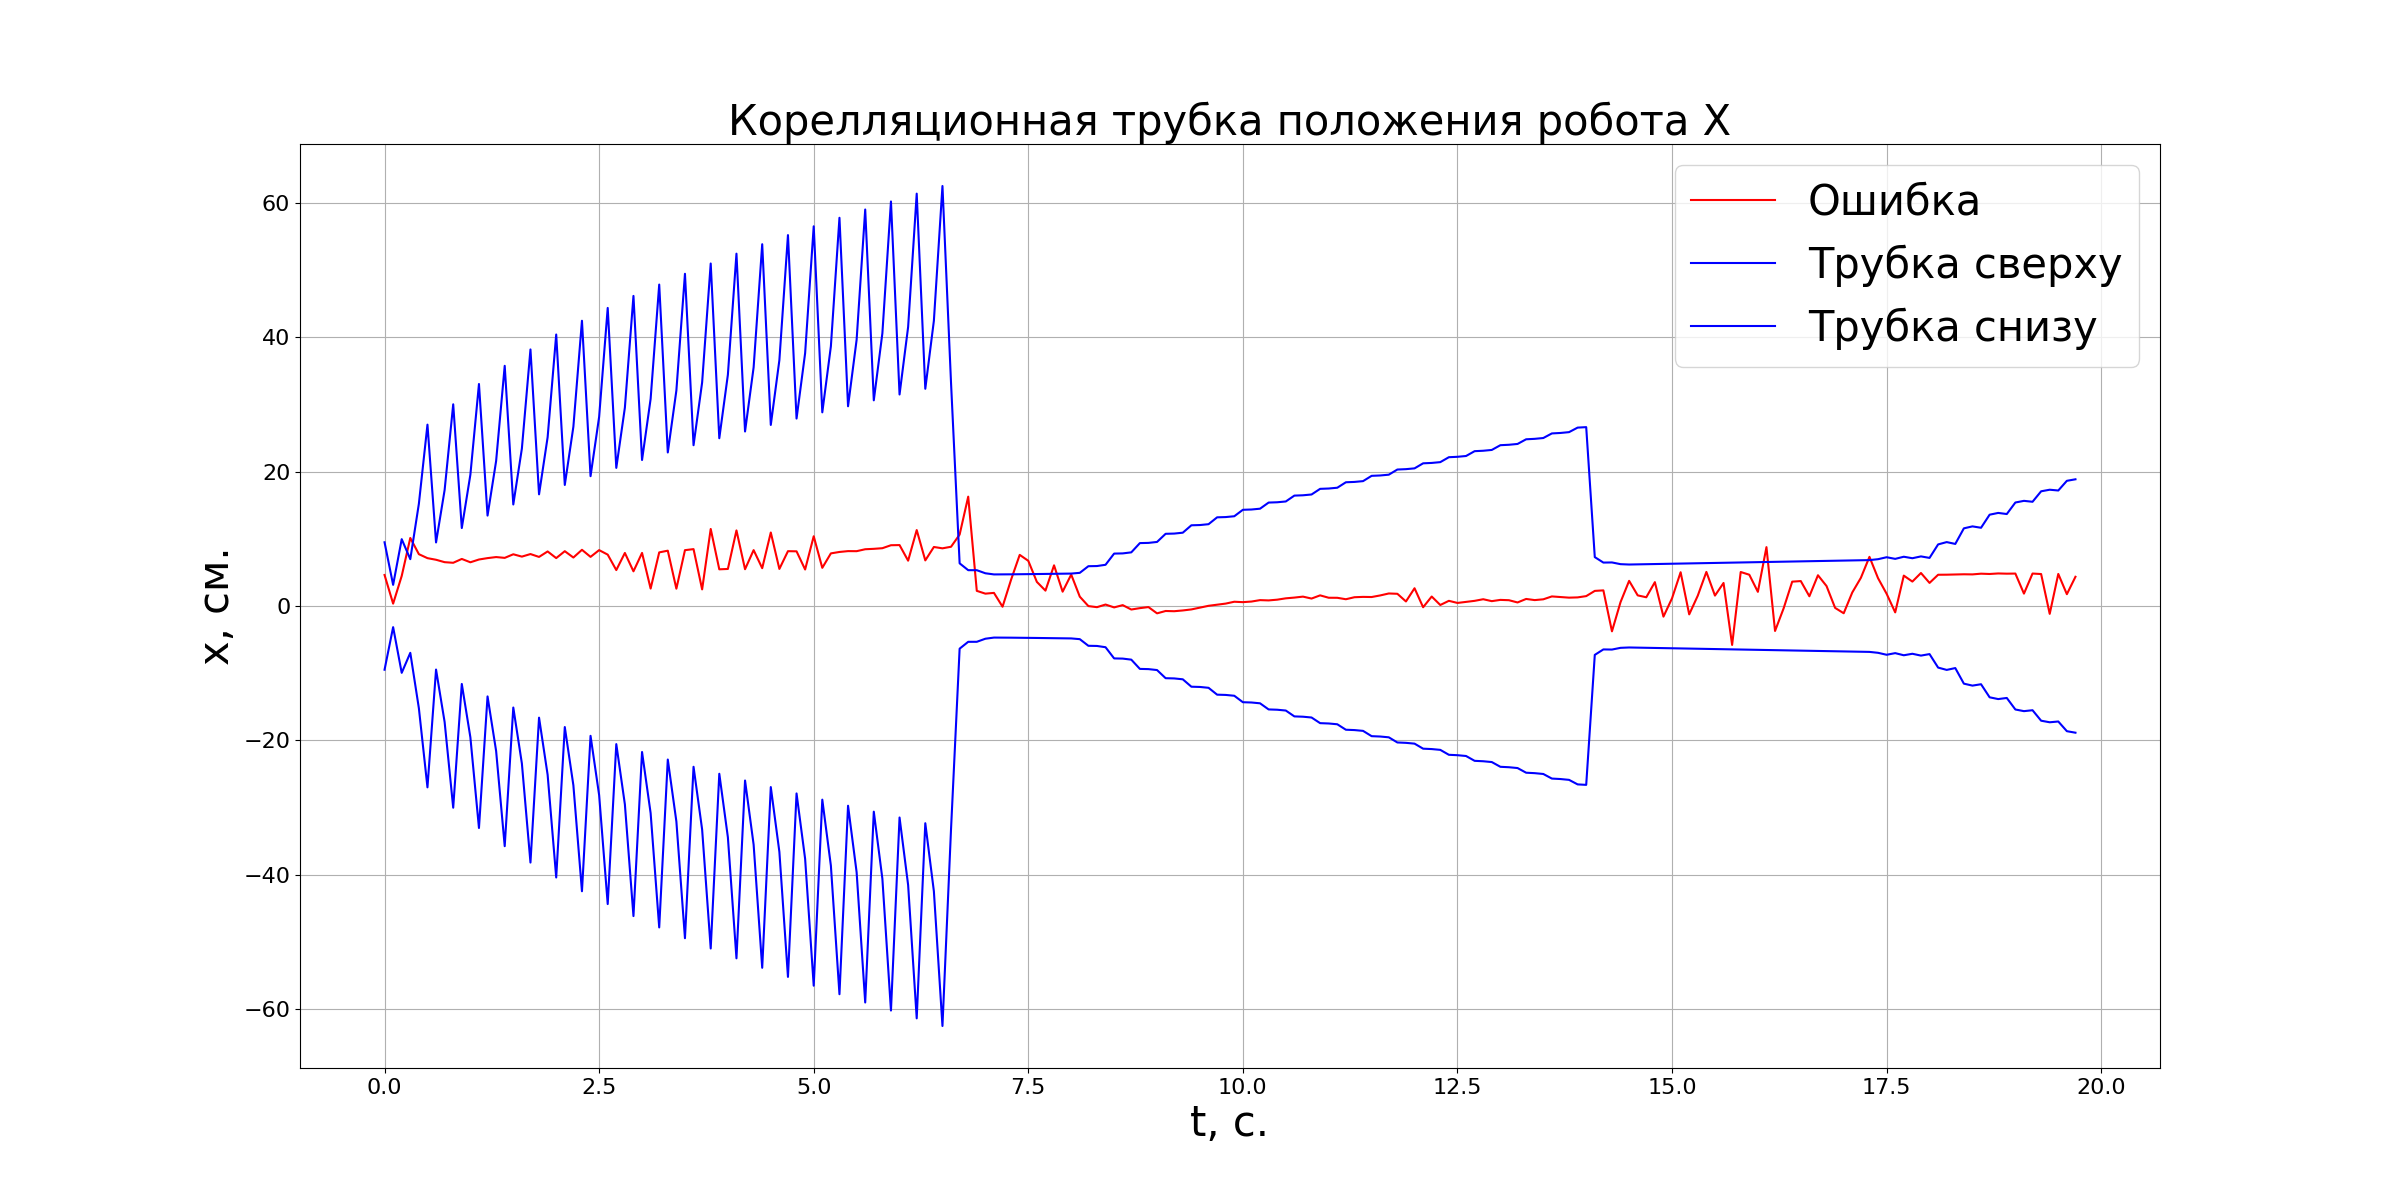
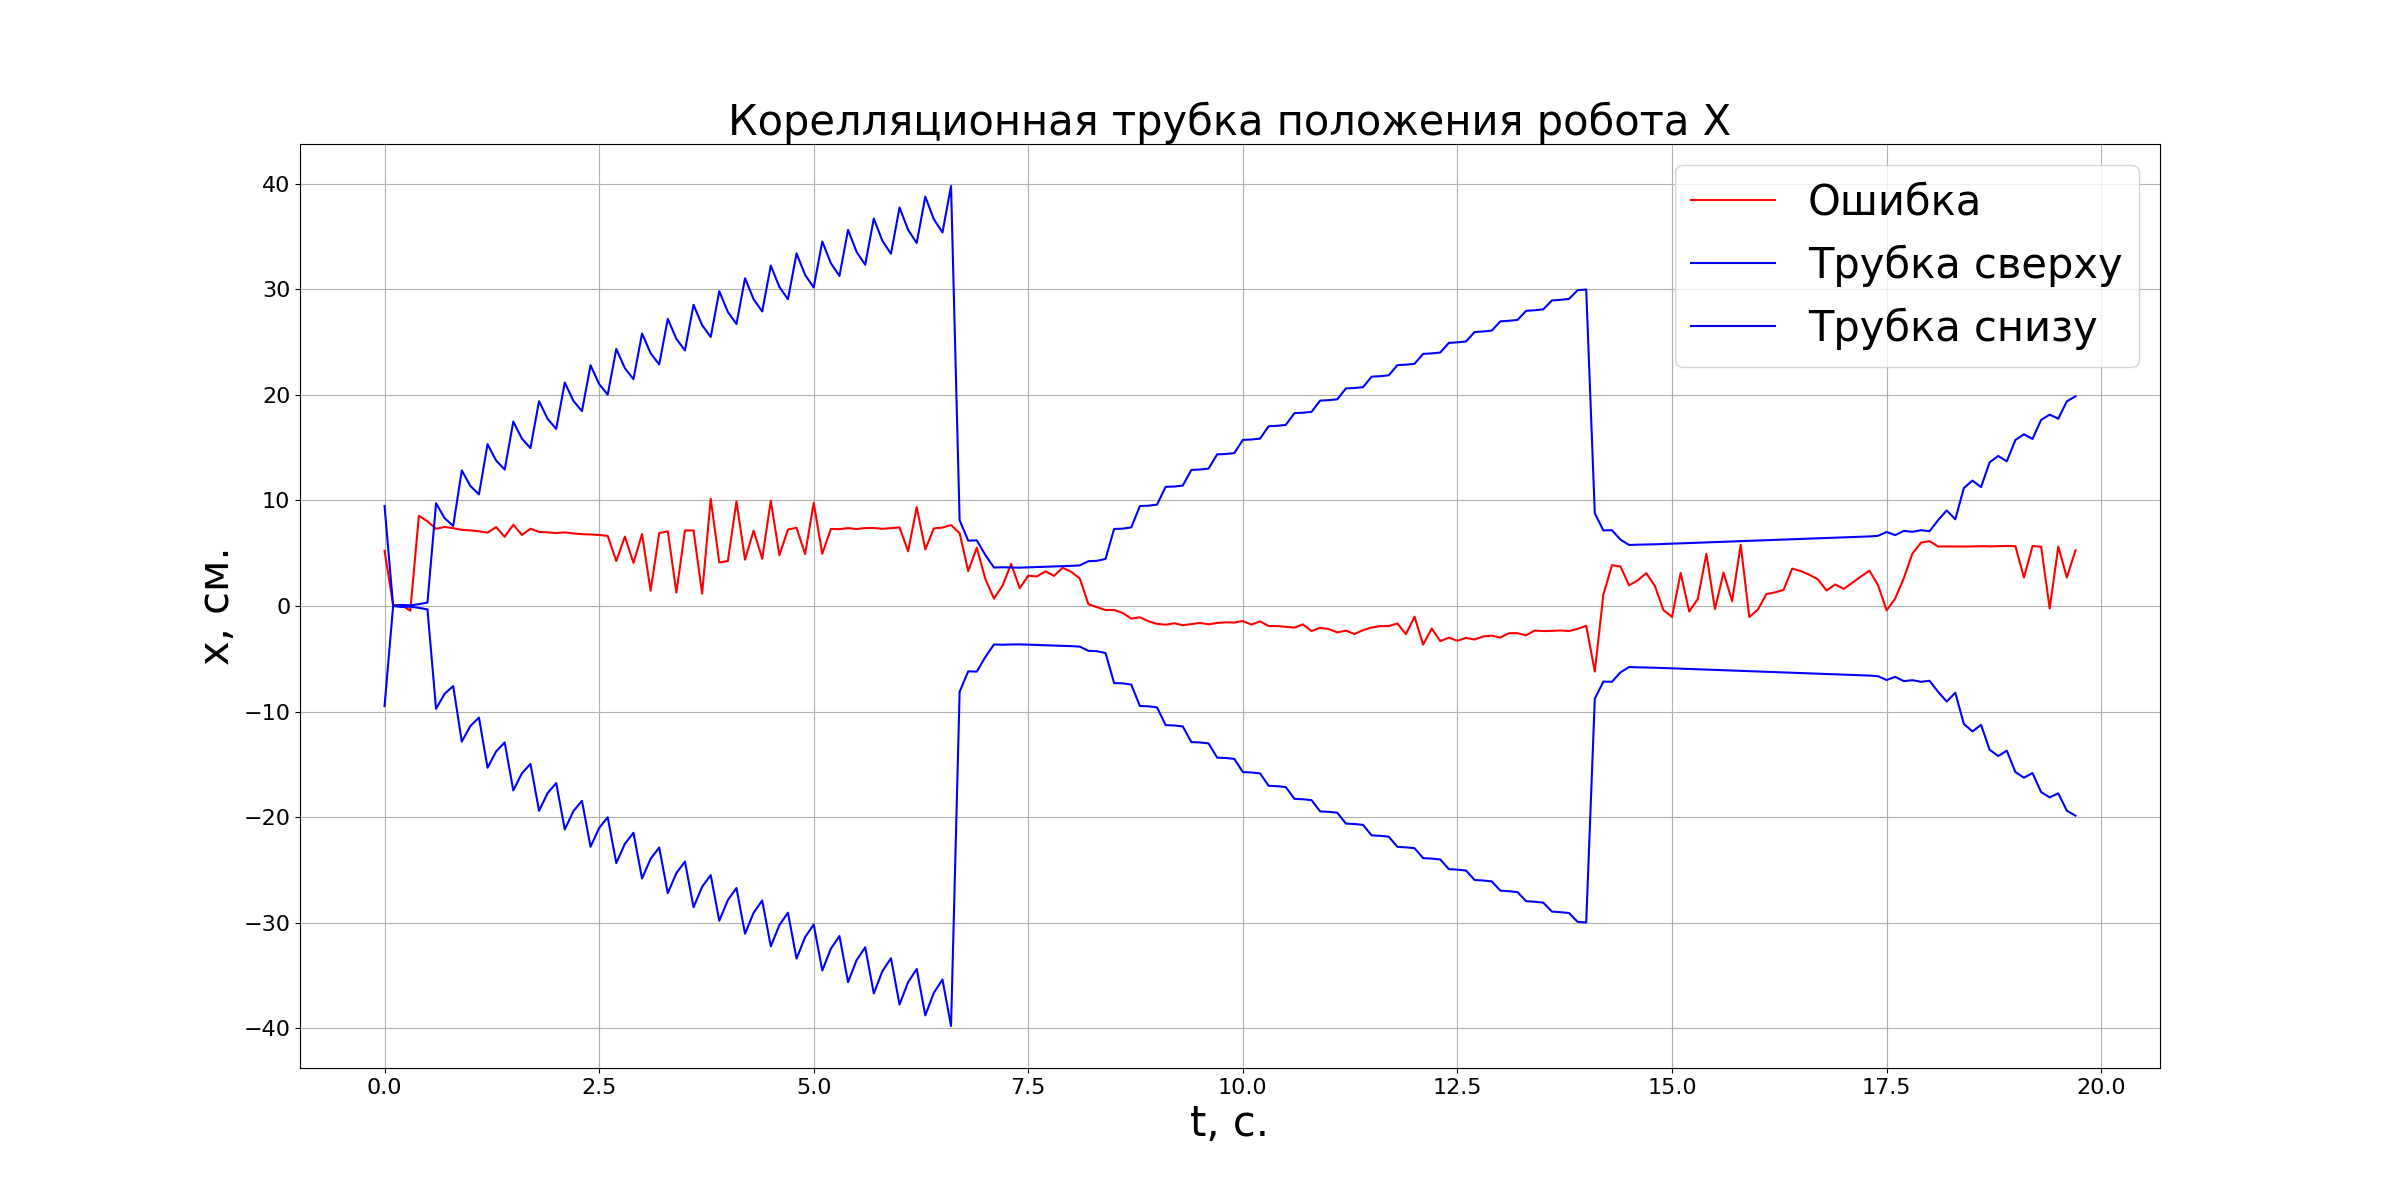
Update

diff --git a/Model.py b/Model.py
@@ -325,45 +325,47 @@ class Model:
 
 
     def Prediction(self,U,dt,t):
-        if t==0:
-            t=dt
-
-        F=np.asarray([
-            [1.,0.,0, 0., 0.,0.,0, 0., 0.],
-            [0.,1.,0, 0.,0.,0.,0, 0., 0.],
-            [0.,0.,1.,0.,0.,0.,0, 0., 0.],
+        if t>dt:
+            F=np.asarray([
+                [1.,0.,0, 0., 0.,0.,0, 0., 0.],
+                [0.,1.,0, 0.,0.,0.,0, 0., 0.],
+                [0.,0.,1.,0.,0.,0.,0, 0., 0.],
             
-            [1.,0.,0.,0.,0.,0.,0, -t, 0.],
-            [0.,1.,0.,0.,0.,0.,0, 0., -t],
+                [1.,0.,0.,0.,0.,0.,0, -t, 0.],
+                [0.,1.,0.,0.,0.,0.,0, 0., -t],
             
-            [0.,0.,0.,0.,1.,0.,0, 0., 0],
-            [0.,0.,0.,0.,0.,1.,0, 0., 0],
+                [0.,0.,0.,0.,1.,0.,0, 0., 0],
+                [0.,0.,0.,0.,0.,1.,0, 0., 0],
+
+                [1/(t/dt)/dt,0,0.,0.,-1/(t/dt)/dt,0.,0, 0., 0],
+                [0.,1/(t/dt)/dt,0.,0.,0.,-1/(t/dt)/dt,0, 0., 0],
+                ],dtype=float)
+        else:
+            F=np.asarray([
+                [1.,0.,0, 0., 0.,0.,0, 0., 0.],
+                [0.,1.,0, 0.,0.,0.,0, 0., 0.],
+                [0.,0.,1.,0.,0.,0.,0, 0., 0.],
             
-            [1/(t/dt)/dt,0,0.,0.,1/(t/dt)/dt,0.,0, 0., 0],
-            [0.,1/(t/dt)/dt,0.,0.,0.,1/(t/dt)/dt,0, 0., 0],
-        ],dtype=float)
+                [1.,0.,0.,0.,0.,0.,0, -t, 0.],
+                [0.,1.,0.,0.,0.,0.,0, 0., -t],
+            
+                [0.,0.,0.,0.,1.,0.,0, 0., 0],
+                [0.,0.,0.,0.,0.,1.,0, 0., 0],
 
-        # V=np.asarray([
-        #     [cos(self.__x_c[2]+U[1])*dt, 0.],
-        #     [sin(self.__x_c[2]+U[1])*dt, 0.],
-        #     [0.,1.],
-        #     [0.,0,],
-        #     [0.,0,],
-        #     [0.,0,],
-        # ],dtype=float)
+                [dt,0,0.,0.,-dt,0.,0, 0., 0],
+                [0.,dt,0.,0.,0.,-dt,0, 0., 0],
+                ],dtype=float)
 
-        # L=self.GetLambda(self.__cT)
-        # L_t=np.transpose(L)
-        # De=np.dot(np.dot(L,self.__Dn),L_t)
+
 
         De=np.asarray([
             [0.0001,0,0,0,0,0,0,0,0],
             [0,0.0001,0,0,0,0,0,0,0],
             [0,0,0.01,0,0,0,0,0,0],
-            [0,0,0,1,0,0,0,0,0],
-            [0,0,0,0,1,0,0,0,0],
-            [0,0,0,0,0,1,0,0,0],
-            [0,0,0,0,0,0,1,0,0],
+            [0,0,0,0,0,0,0,0,0],
+            [0,0,0,0,0,0,0,0,0],
+            [0,0,0,0,0,3,0,0,0],
+            [0,0,0,0,0,0,3,0,0],
             [0,0,0,0,0,0,0,0.01,0],
             [0,0,0,0,0,0,0,0,0.01],
         ])
@@ -378,8 +380,12 @@ class Model:
         self.__x_p[5]=self.__x_c[5]+U[0]*cos(self.__x_c[2]+U[1])*dt
         self.__x_p[6]=self.__x_c[6]+U[0]*sin(self.__x_c[2]+U[1])*dt
 
-        self.__x_p[7]=(self.__x_c[0]-self.__x_c[5])/(t/dt)/dt
-        self.__x_p[8]=(self.__x_c[1]-self.__x_c[6])/(t/dt)/dt
+        if t>dt:
+            self.__x_p[7]=(self.__x_c[0]-self.__x_c[5])/(t/dt)/dt
+            self.__x_p[8]=(self.__x_c[1]-self.__x_c[6])/(t/dt)/dt
+        else:
+            self.__x_p[7]=(self.__x_c[0]-self.__x_c[5])*dt
+            self.__x_p[8]=(self.__x_c[1]-self.__x_c[6])*dt
 
 
         self.__p_p=np.dot(np.dot(F,self.__p_c),np.transpose(F))+De
@@ -421,8 +427,8 @@ class Model:
         alpha=tan(atan2((position[1]-self.__initY),(position[0]-self.__initX)))
         self.__wz=alpha
 
-        self.__x_p[0]=self.__initX+random.normal(0,3)
-        self.__x_p[1]=self.__initY+random.normal(0,3)
+        self.__x_p[0]=self.__initX-3
+        self.__x_p[1]=self.__initY-3
         self.__x_p[2]=self.__wz
         self.__x_p[3]=self.__x_p[0]
         self.__x_p[4]=self.__x_p[1]
@@ -439,8 +445,8 @@ class Model:
         self.__p_p[4][4]=10
         self.__p_p[5][5]=10
         self.__p_p[6][6]=10
-        self.__p_p[7][7]=10
-        self.__p_p[8][8]=10
+        self.__p_p[7][7]=20
+        self.__p_p[8][8]=20
    
         
         index=0
@@ -458,8 +464,8 @@ class Model:
             otherY=Data[3]           
 
             self.Correction(y,Data[1])
-            self.Result.append([Data[0],self.__x_c[0],self.__x_c[1],self.__x_c[2],self.__x_c[3],self.__x_c[4]])
-            self.P.append([Data[0],self.__p_c[0][0],self.__p_c[1][1],self.__p_c[2][2],self.__p_c[3][3],self.__p_c[4][4]])         
+            self.Result.append([Data[0],self.__x_c[0],self.__x_c[1],self.__x_c[2],self.__x_c[3],self.__x_c[4],self.__x_c[5],self.__x_c[6],self.__x_c[7],self.__x_c[8]])
+            self.P.append([Data[0],self.__p_c[0][0],self.__p_c[1][1],self.__p_c[2][2],self.__p_c[3][3],self.__p_c[4][4],self.__p_c[5][5],self.__p_c[6][6],self.__p_c[7][7],self.__p_c[8][8]])         
 
             c,dwz,newDt=self.Control(dt,otherY[0],otherY[1],otherY[2],self.__x_c[3],self.__x_c[4],self.__x_c[2])
             U=np.asarray([c,dwz])

diff --git a/Main.py b/Main.py
@@ -91,12 +91,16 @@ x=[]
 y=[]
 rx=[]
 ry=[]
+kx=[]
+ky=[]
 for j in model.RealData:
     t.append(j[0])
     x.append(j[1])
     y.append(j[2])
     rx.append(j[4])
     ry.append(j[5])
+    kx.append(3)
+    ky.append(3)
 
 xi=[]
 yi=[]
@@ -110,11 +114,15 @@ xfk=[]
 yfk=[]
 rxfk=[]
 ryfk=[]
+kxfk=[]
+kyfk=[]
 for j in model.Result:
     xfk.append(j[1])
     yfk.append(j[2])
     rxfk.append(j[4])
     ryfk.append(j[5])
+    kxfk.append(j[8])
+    kyfk.append(j[9])
 
 p_x=[]
 p_y=[]
@@ -237,5 +245,36 @@ plt.plot(t, np.sqrt(p_ry)*3,'b',label="Трубка сверху")  # постр
 plt.plot(t, -np.sqrt(np.asarray(p_ry))*3,'b',label="Трубка снизу")  # построение графика
 plt.legend(loc=0)
 plt.savefig('Корелляционная трубка положения робота Y')
+
+
+plt.figure(figsize=(24,12))
+plt.rc('axes', labelsize=30)
+plt.rc('axes',titlesize=30)
+plt.rc('legend', fontsize=30)
+plt.tick_params(axis='both', which='major', labelsize=16)
+plt.title("График эволюции K1") # заголовок
+plt.xlabel("t, с.") # ось абсцисс
+plt.ylabel("k1") # ось ординат
+plt.grid()      # включение отображение сетки
+plt.plot(t, kx,'r',label="Реальное значение K1")  # построение графика
+plt.plot(t, kxfk,'b',label="Результат - ФК")  # построение графика
+#plt.plot(t, yi,'g',label="Результат измерения- ФК")  # построение графика
+plt.legend(loc=0)
+plt.savefig('K1')
+
+plt.figure(figsize=(24,12))
+plt.rc('axes', labelsize=30)
+plt.rc('axes',titlesize=30)
+plt.rc('legend', fontsize=30)
+plt.tick_params(axis='both', which='major', labelsize=16)
+plt.title("График эволюции K2") # заголовок
+plt.xlabel("t, с.") # ось абсцисс
+plt.ylabel("k2") # ось ординат
+plt.grid()      # включение отображение сетки
+plt.plot(t, ky,'r',label="Реальное значение K2")  # построение графика
+plt.plot(t, kyfk,'b',label="Результат - ФК")  # построение графика
+#plt.plot(t, yi,'g',label="Результат измерения- ФК")  # построение графика
+plt.legend(loc=0)
+plt.savefig('K2')
 
 sys.exit(app.exec())
